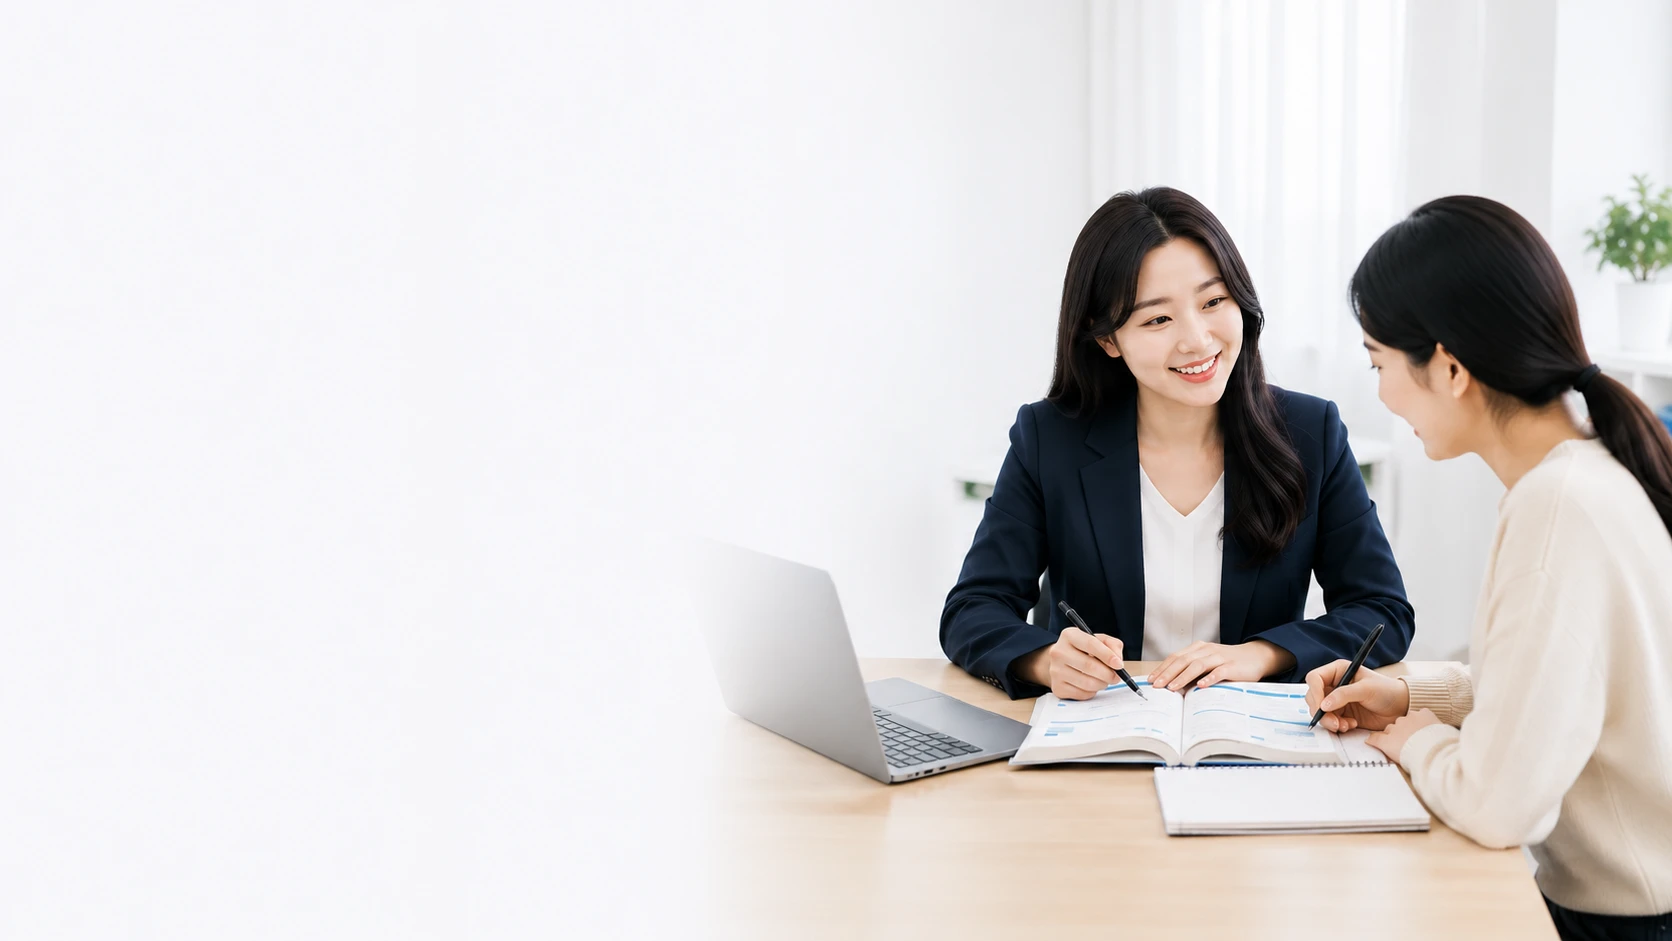
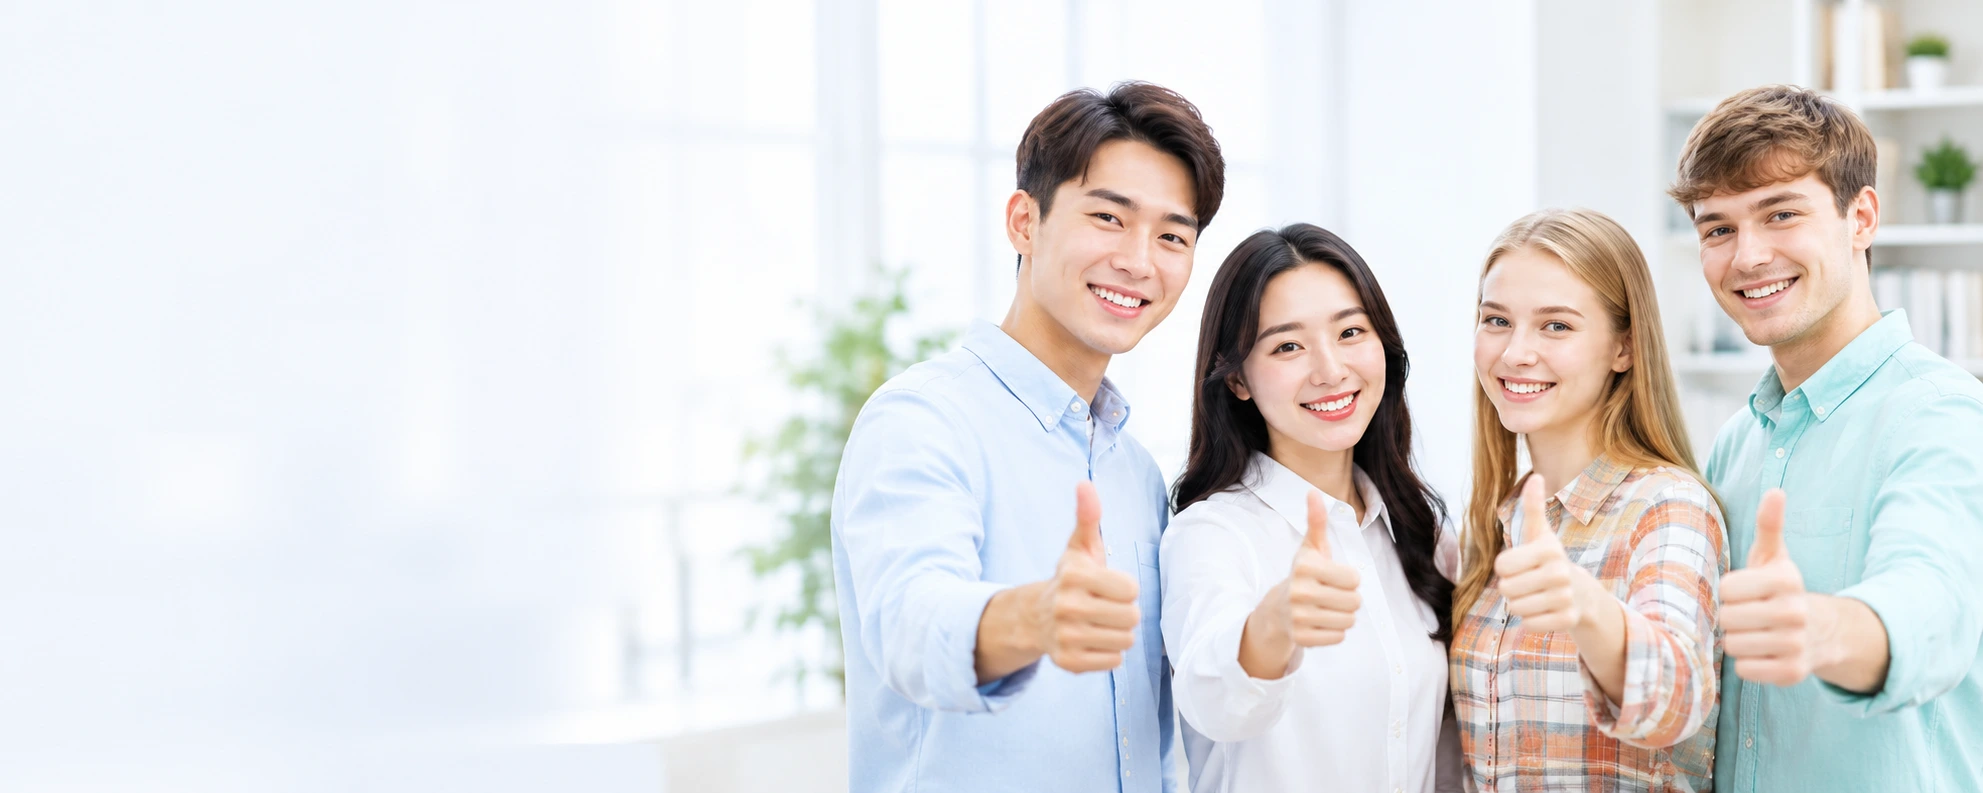
Apply new responsive Hero images

diff --git a/scripts/test-hero-assets.js b/scripts/test-hero-assets.js
@@ -29,10 +29,10 @@ function runTest() {
   assert.ok(!html.includes('loading="lazy"'));
 
   const desktopExists = fs.existsSync(
-    path.join(ROOT_DIR, 'public', 'assets', 'hero', 'hero-desktop.webp')
+    path.join(ROOT_DIR, 'public', 'images', 'hero.webp')
   );
   const mobileExists = fs.existsSync(
-    path.join(ROOT_DIR, 'public', 'assets', 'hero', 'hero-mobile.webp')
+    path.join(ROOT_DIR, 'public', 'images', 'hero-mobile.webp')
   );
 
   if (!desktopExists) {
@@ -42,19 +42,19 @@ function runTest() {
   if (!mobileExists) {
     assert.strictEqual(assets.mobile.source, 'desktop-fallback');
     assert.strictEqual(assets.mobile.src, assets.desktop.src);
-    assert.match(html, /srcset="\/assets\/hero\/hero-desktop\.webp"/);
+    assert.match(html, /srcset="\/images\/hero-mobile\.webp"/);
   }
 
   // 실제 WebP 파일을 임시 폴더에 넣었을 때 두 경로가 자동 선택되는지도 확인합니다.
   const fixtureRoot = fs.mkdtempSync(path.join(os.tmpdir(), 'kimsenglish-hero-'));
   try {
-    const fixtureHeroDir = path.join(fixtureRoot, 'public', 'assets', 'hero');
+    const fixtureHeroDir = path.join(fixtureRoot, 'public', 'images');
     fs.mkdirSync(fixtureHeroDir, { recursive: true });
     const tinyWebp = Buffer.from(
[1 lines of base64/hex data omitted]
       'base64'
     );
-    fs.writeFileSync(path.join(fixtureHeroDir, 'hero-desktop.webp'), tinyWebp);
+    fs.writeFileSync(path.join(fixtureHeroDir, 'hero.webp'), tinyWebp);
     fs.writeFileSync(path.join(fixtureHeroDir, 'hero-mobile.webp'), tinyWebp);
 
     const webpAssets = resolveHeroAsset(fixtureRoot);
@@ -66,8 +66,8 @@ function runTest() {
     });
     assert.strictEqual(webpAssets.desktop.source, 'primary');
     assert.strictEqual(webpAssets.mobile.source, 'primary');
-    assert.match(webpHtml, /src="\/assets\/hero\/hero-desktop\.webp"/);
-    assert.match(webpHtml, /srcset="\/assets\/hero\/hero-mobile\.webp"/);
+    assert.match(webpHtml, /src="\/images\/hero\.webp"/);
+    assert.match(webpHtml, /srcset="\/images\/hero-mobile\.webp"/);
     assert.match(webpHtml, /type="image\/webp"/);
   } finally {
     fs.rmSync(fixtureRoot, { recursive: true, force: true });
@@ -75,7 +75,7 @@ function runTest() {
 
   console.log('Hero 이미지 시스템 테스트 통과');
   console.log('- Desktop 이미지:', desktopExists ? 'WebP 사용' : 'fallback illustration 사용');
-  console.log('- Mobile 이미지:', mobileExists ? 'WebP 사용' : 'Desktop WebP 자동 대체');
+  console.log('- Mobile 이미지:', mobileExists ? '전용 WebP 사용' : 'Desktop WebP 자동 대체');
   console.log('- picture, eager, high priority, async decoding, 크기 속성 확인');
 }
 

diff --git a/config/brand-assets.js b/config/brand-assets.js
@@ -12,8 +12,8 @@ module.exports = Object.freeze({
     mark: { src: "/assets/logo/logo-mark.svg", placeholder: "/images/brand/logo-placeholder.svg", alt: "", width: 44, height: 44, decorative: true },
   }),
   hero: Object.freeze({
-    desktop: { src: "/assets/hero/hero-desktop.webp", placeholder: "/images/hero/hero-placeholder.svg", alt: "전국 지역별 맞춤 수업 안내", width: 1600, height: 900 },
-    mobile: { src: "/assets/hero/hero-mobile.webp", placeholder: "/images/hero/hero-placeholder.svg", alt: "전국 지역별 맞춤 수업 안내", width: 1200, height: 900 },
+    desktop: { src: "/images/hero.webp", placeholder: "/images/hero/hero-placeholder.svg", alt: "전국 지역별 맞춤 수업 안내", width: 1983, height: 793 },
+    mobile: { src: "/images/hero-mobile.webp", placeholder: "/images/hero/hero-placeholder.svg", alt: "전국 지역별 맞춤 수업 안내", width: 1983, height: 793 },
   }),
   subjects: Object.freeze({
     english: { src: "/assets/subjects/english.webp", placeholder: "/images/categories/english-placeholder.svg", alt: "영어 맞춤 수업", width: 1024, height: 1024 },

diff --git a/assets/style.css b/assets/style.css
@@ -677,7 +677,7 @@ p { margin-top: 0; }
   .home-hero-layout { grid-template-columns: minmax(0, 1fr); gap: 46px; }
   .hero-layout { grid-template-columns: minmax(0, 1.08fr) minmax(360px, .92fr); gap: 64px; }
   .home-hero .image-box-hero { width: min(100%, 960px); justify-self: center; aspect-ratio: 16 / 9; }
-  .home-hero .image-box-hero img { object-fit: contain; object-position: right center; }
+  .home-hero .image-box-hero img { object-fit: cover; object-position: right center; }
   .hub-hero-layout { grid-template-columns: minmax(0, 1.15fr) minmax(320px, .85fr); gap: 56px; }
   .hub-hero-media { margin-bottom: 0; }
   .reason-grid, .management-grid, .related-grid, .lesson-grid { grid-template-columns: repeat(3, minmax(0, 1fr)); }
